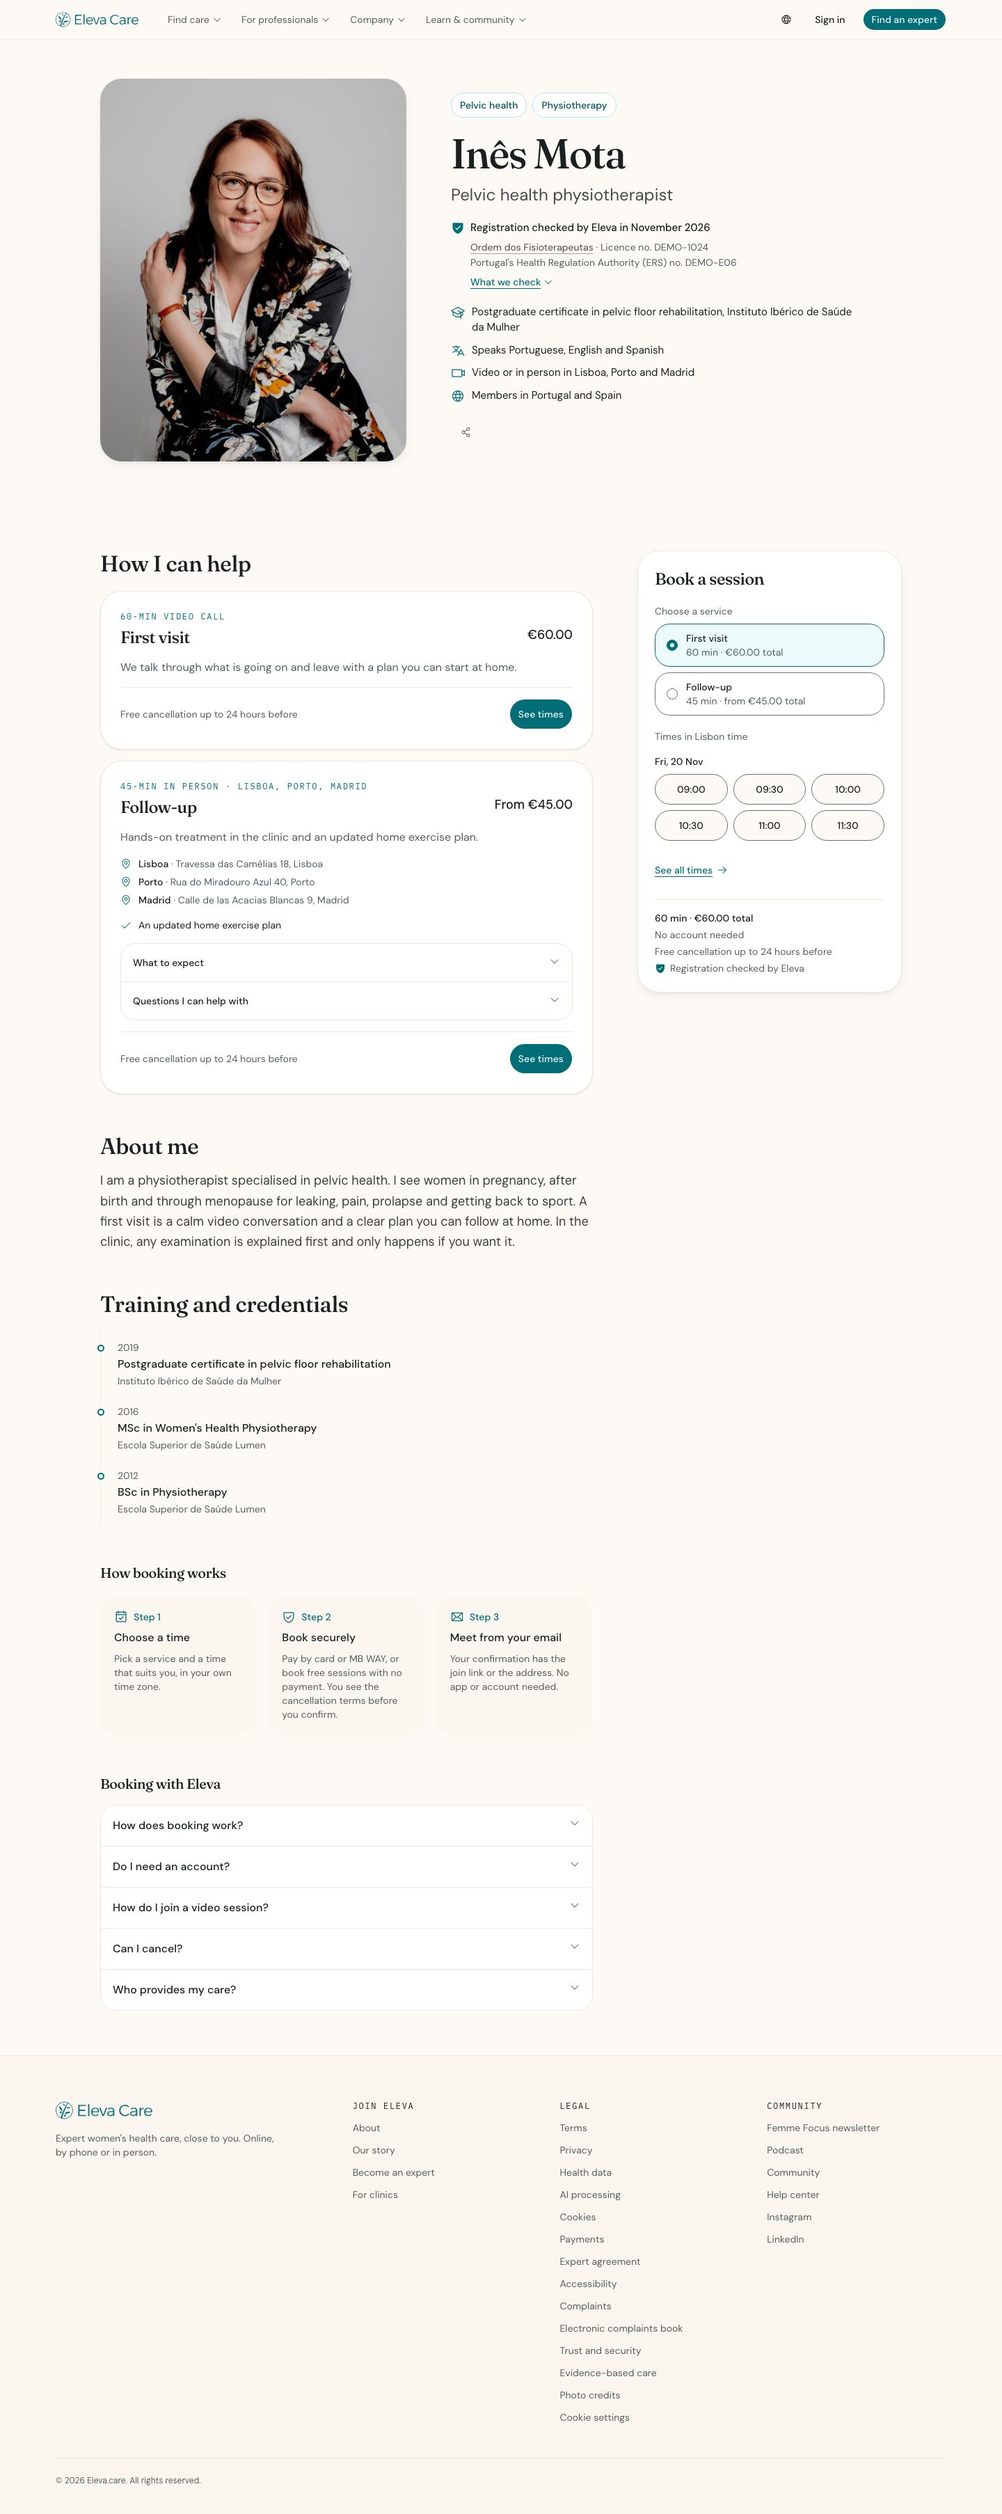
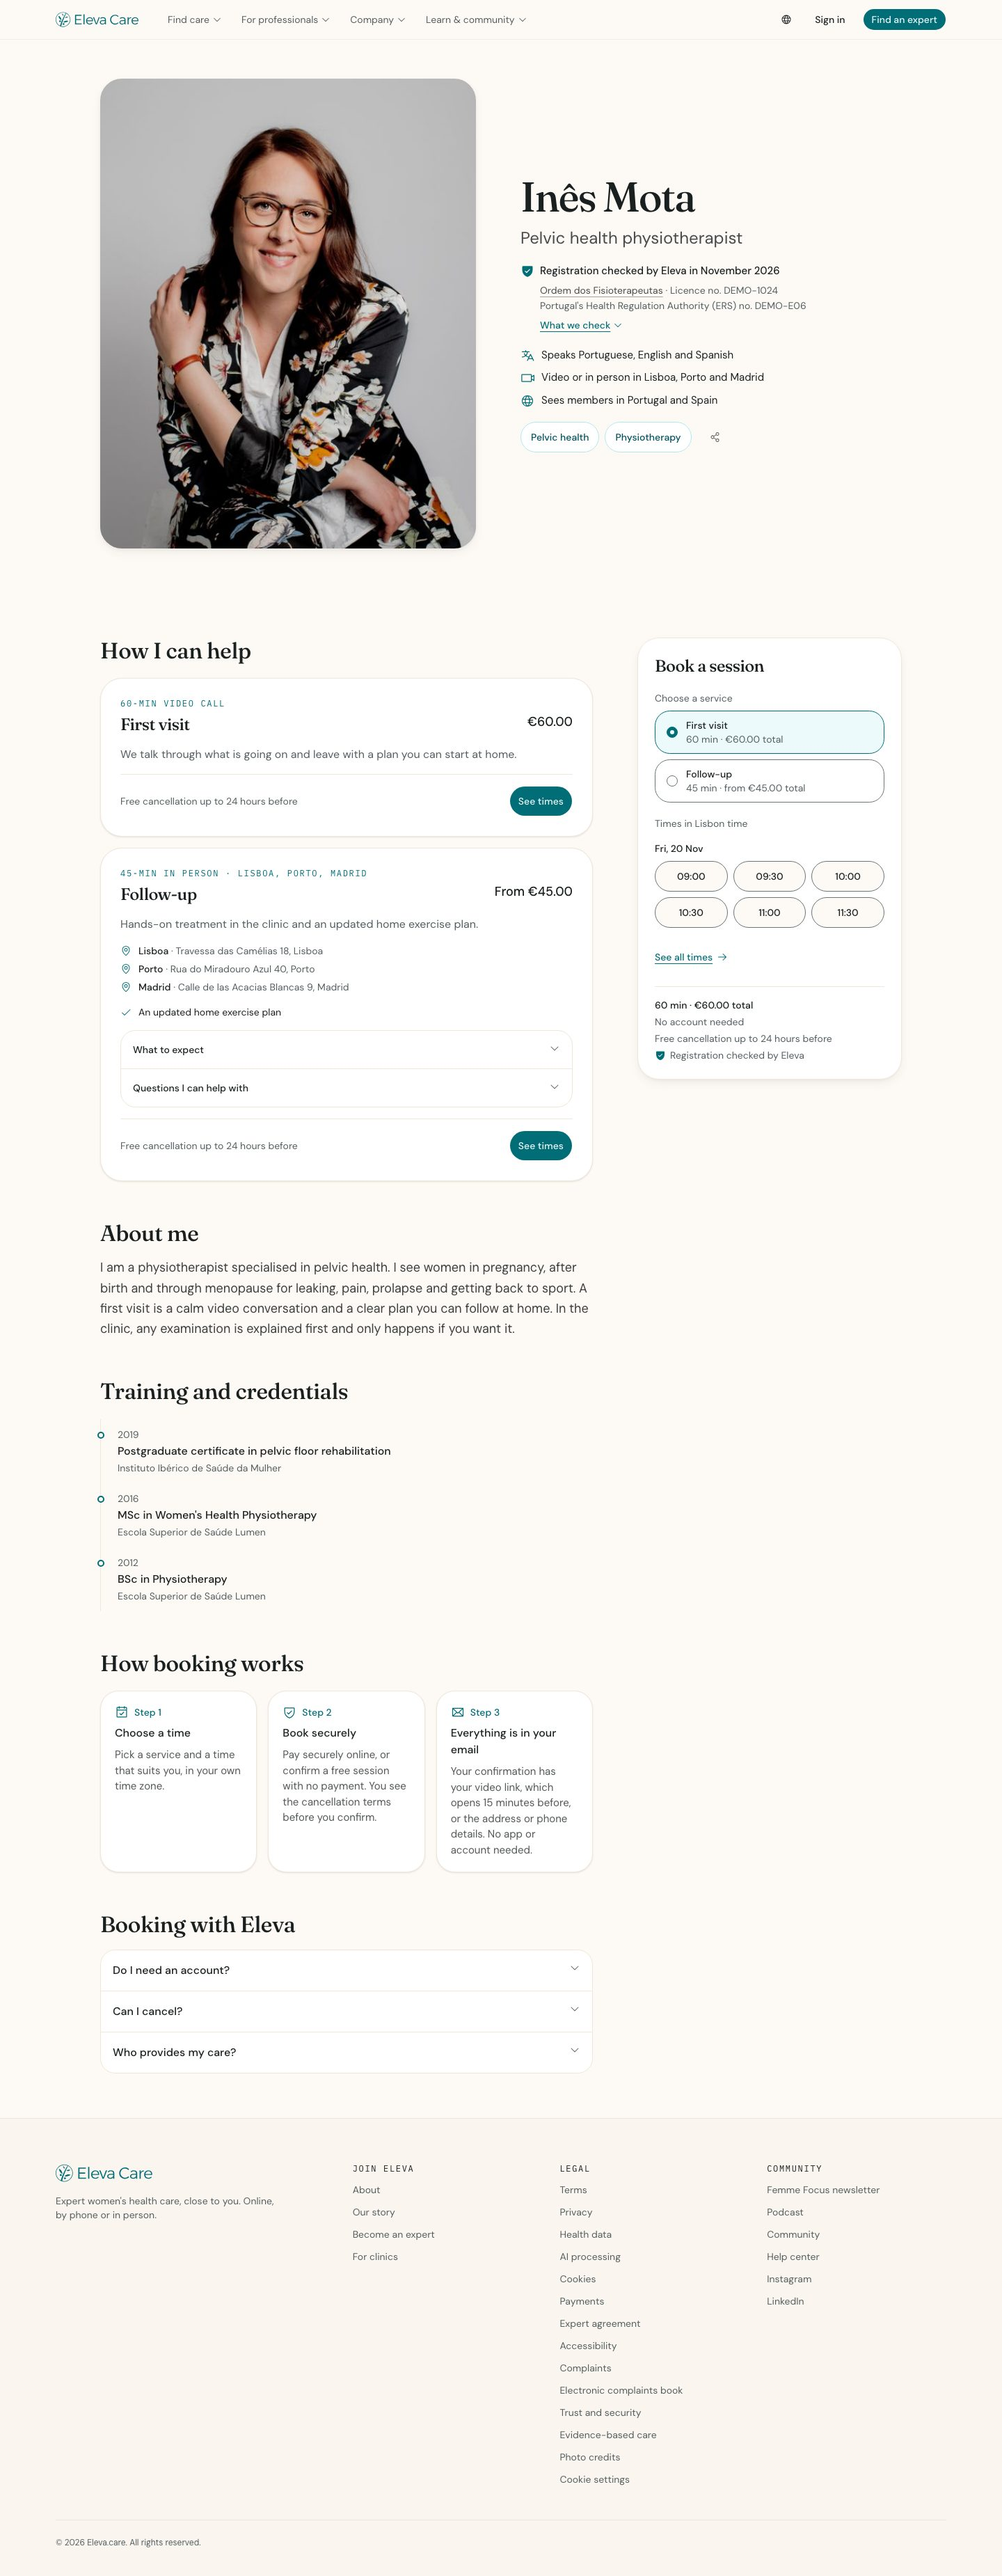
fix(web): profile header round 2 from the judges panel (D2.2)

diff --git a/apps/web/src/app/[locale]/[username]/page.tsx b/apps/web/src/app/[locale]/[username]/page.tsx
@@ -13,6 +13,7 @@ import {
   type CancellationPolicy,
 } from "@eleva/config/cancellation-policy"
 import { resolveGatewayUrl } from "@eleva/config/env"
+import { EU_SERVICE_COUNTRIES } from "@eleva/config"
 import { professionalBodyById } from "@eleva/config/professional-bodies"
 import { isReserved } from "@eleva/config/reserved-usernames"
 import { RichTextViewer } from "@eleva/editor/rich-text-viewer"
@@ -22,7 +23,6 @@ import {
   CheckIcon,
   EnvelopeIcon,
   GlobeIcon,
-  GraduationCapIcon,
   MapPinIcon,
   ShieldCheckIcon,
   SOCIAL_LINK_ICONS,
@@ -43,6 +43,7 @@ import {
 } from "@eleva/ui/components/accordion"
 import { buttonVariants } from "@eleva/ui/components/button-variants"
 import { Heading } from "@eleva/ui/components/typography"
+import { cn } from "@eleva/ui/lib/utils"
 import {
   displayLanguageLabel,
   displayRegion,
@@ -148,13 +149,7 @@ export default async function ExpertProfilePage({ params }: Props) {
     (eventType) => eventType.modes.length > 0
   )
   const categories = expert.categorySlugs.filter(isMarketplaceCategory)
-  const facts = profileFacts(
-    expert,
-    bookable,
-    locale,
-    t,
-    heroCredential(expert)
-  )
+  const facts = profileFacts(expert, bookable, locale, t)
   const bio = pickBio(expert, locale)
   const minPrice = lowestPrice(bookable)
   const allFree = bookable.every((eventType) => {
@@ -188,8 +183,8 @@ export default async function ExpertProfilePage({ params }: Props) {
           spacing="compact"
           className="bg-linear-to-b from-sand-50 to-background pt-0 max-sm:px-0 sm:pt-14 dark:from-teal-950/40"
         >
-          <Container className="grid gap-6 sm:gap-10 lg:grid-cols-[minmax(0,440px)_minmax(0,1fr)] lg:items-center lg:gap-16">
-            <div className="relative aspect-[4/5] w-full overflow-hidden bg-muted max-sm:max-h-[78svh] sm:mx-auto sm:max-w-md sm:rounded-4xl sm:shadow-2 lg:max-w-none">
+          <Container className="grid gap-6 sm:gap-10 lg:grid-cols-[minmax(0,500px)_minmax(0,1fr)] lg:items-center lg:gap-16 xl:grid-cols-[minmax(0,540px)_minmax(0,1fr)]">
+            <div className="relative aspect-[4/5] w-full overflow-hidden bg-muted max-sm:aspect-[6/7] max-sm:max-h-[64svh] sm:mx-auto sm:max-w-md sm:rounded-4xl sm:shadow-2 lg:max-w-none">
               {expert.avatarUrl ? (
                 <ExpertPortrait
                   displayName={name}
@@ -203,9 +198,14 @@ export default async function ExpertProfilePage({ params }: Props) {
                   carries the same name for assistive tech. */}
               <div
                 aria-hidden
-                className="absolute inset-x-0 bottom-0 bg-linear-to-t from-black/75 via-black/35 to-transparent px-4 pt-28 pb-5 text-white sm:hidden"
+                className={cn(
+                  "absolute inset-x-0 bottom-0 px-4 pt-28 pb-5 text-white sm:hidden",
+                  // The teal field needs no scrim; a photo does.
+                  expert.avatarUrl &&
+                    "bg-linear-to-t from-black/80 via-black/55 to-transparent"
+                )}
               >
-                <p className="font-display text-[2.5rem] leading-[1.05] font-medium tracking-tight text-balance">
+                <p className="font-display text-[2.5rem] leading-[1.05] font-medium tracking-tight text-balance [text-shadow:0_1px_12px_rgb(0_0_0/0.5)]">
                   {name}
                 </p>
                 {expert.headline ? (
@@ -216,20 +216,6 @@ export default async function ExpertProfilePage({ params }: Props) {
               </div>
             </div>
             <div className="flex flex-col gap-5 max-sm:px-4">
-              {categories.length > 0 ? (
-                <ul className="flex flex-wrap gap-2">
-                  {categories.map((slug) => (
-                    <li key={slug}>
-                      <Link
-                        href={`/experts/${slug}`}
-                        className="inline-flex min-h-9 items-center rounded-full border border-teal-200 bg-card px-3 text-sm font-medium text-teal-800 transition-colors hover:border-primary hover:bg-teal-50 focus-visible:ring-3 focus-visible:ring-ring/50 focus-visible:outline-none dark:border-teal-800 dark:text-teal-200 dark:hover:bg-teal-950"
-                      >
-                        {tExperts(`categories.${slug}`)}
-                      </Link>
-                    </li>
-                  ))}
-                </ul>
-              ) : null}
               <div className="flex flex-col gap-3">
                 <h1
                   data-testid="expert-profile-heading"
@@ -268,7 +254,21 @@ export default async function ExpertProfilePage({ params }: Props) {
                   })}
                 </ul>
               ) : null}
-              <div className="flex flex-wrap items-center gap-1">
+              <div className="flex flex-wrap items-center gap-x-1 gap-y-2">
+                {categories.length > 0 ? (
+                  <ul className="mr-2 flex flex-wrap gap-2">
+                    {categories.map((slug) => (
+                      <li key={slug}>
+                        <Link
+                          href={`/experts/${slug}`}
+                          className="inline-flex min-h-11 items-center rounded-full border border-teal-200 bg-card px-3.5 text-sm font-medium text-teal-800 transition-colors hover:border-primary hover:bg-teal-50 focus-visible:ring-3 focus-visible:ring-ring focus-visible:ring-offset-2 focus-visible:ring-offset-background focus-visible:outline-none dark:border-teal-800 dark:text-teal-200 dark:hover:bg-teal-950"
+                        >
+                          {tExperts(`categories.${slug}`)}
+                        </Link>
+                      </li>
+                    ))}
+                  </ul>
+                ) : null}
                 {expert.socialLinks.length > 0 ? (
                   <ul className="flex flex-wrap gap-1">
                     {expert.socialLinks.map((link) => {
@@ -285,8 +285,8 @@ export default async function ExpertProfilePage({ params }: Props) {
                             aria-label={t(`social.${link.kind}`, { name })}
                             className={
                               isWebsite
-                                ? "flex h-11 items-center gap-2 rounded-full px-3 text-sm text-foreground/80 transition-colors hover:bg-muted hover:text-foreground focus-visible:ring-3 focus-visible:ring-ring/50 focus-visible:outline-none"
-                                : "flex size-11 items-center justify-center rounded-full text-foreground/70 transition-colors hover:bg-muted hover:text-foreground focus-visible:ring-3 focus-visible:ring-ring/50 focus-visible:outline-none"
+                                ? "flex h-11 items-center gap-2 rounded-full px-3 text-sm text-foreground/80 transition-colors hover:bg-muted hover:text-foreground focus-visible:ring-3 focus-visible:ring-ring focus-visible:ring-offset-2 focus-visible:ring-offset-background focus-visible:outline-none"
+                                : "flex size-11 items-center justify-center rounded-full text-foreground/70 transition-colors hover:bg-muted hover:text-foreground focus-visible:ring-3 focus-visible:ring-ring focus-visible:ring-offset-2 focus-visible:ring-offset-background focus-visible:outline-none"
                             }
                           >
                             <Icon aria-hidden className="size-5" />
@@ -319,7 +319,12 @@ export default async function ExpertProfilePage({ params }: Props) {
         <Section spacing="compact" className="pb-20">
           {/* One booking card: after the services on phones, a sticky
               side column from lg. */}
-          <Container className="grid gap-x-16 gap-y-14 lg:grid-cols-[minmax(0,1fr)_380px]">
+          <Container
+            className={cn(
+              "grid gap-x-16 gap-y-14",
+              bookable.length > 0 && "lg:grid-cols-[minmax(0,1fr)_380px]"
+            )}
+          >
             <div className="flex min-w-0 flex-col gap-14 lg:col-start-1 lg:row-start-1">
               {bookable.length > 0 ? (
                 <section
@@ -434,7 +439,7 @@ export default async function ExpertProfilePage({ params }: Props) {
                   className="flex flex-col gap-5"
                   data-testid="how-booking-works"
                 >
-                  <Heading id="how-heading" as="h2" size="subtitle">
+                  <Heading id="how-heading" as="h2" size="title">
                     {t("how.heading")}
                   </Heading>
                   <ol className="grid gap-4 sm:grid-cols-3">
@@ -443,7 +448,7 @@ export default async function ExpertProfilePage({ params }: Props) {
                       return (
                         <li
                           key={step.key}
-                          className="flex flex-col gap-2 rounded-3xl bg-muted/50 p-5"
+                          className="flex flex-col gap-2 rounded-3xl border bg-card p-5 shadow-1"
                         >
                           <span className="flex items-center gap-2 text-sm font-medium text-primary">
                             <Icon aria-hidden className="size-5" />
@@ -452,7 +457,7 @@ export default async function ExpertProfilePage({ params }: Props) {
                           <span className="font-medium">
                             {t(`how.${step.key}.title`)}
                           </span>
-                          <span className="text-sm text-pretty text-muted-foreground">
+                          <span className="text-[0.9375rem] text-pretty text-foreground/75">
                             {t(`how.${step.key}.body`)}
                           </span>
                         </li>
@@ -468,7 +473,7 @@ export default async function ExpertProfilePage({ params }: Props) {
                   aria-labelledby="with-eleva-heading"
                   className="flex flex-col gap-4"
                 >
-                  <Heading id="with-eleva-heading" as="h2" size="subtitle">
+                  <Heading id="with-eleva-heading" as="h2" size="title">
                     {t("withEleva.heading")}
                   </Heading>
                   <Accordion allowsMultipleExpanded className="bg-card">
@@ -516,13 +521,8 @@ const HOW_STEPS = [
   { key: "join", icon: EnvelopeIcon },
 ] as const
 
-const WITH_ELEVA_ITEMS = [
-  "howItWorks",
-  "account",
-  "join",
-  "cancel",
-  "care",
-] as const
+/** The steps already answer how booking and joining work. */
+const WITH_ELEVA_ITEMS = ["account", "cancel", "care"] as const
 
 function BioBody({
   expert,
@@ -569,7 +569,11 @@ function ServiceCard({
   const expect = pickList(eventType.whatToExpect, locale)
   const questions = pickList(eventType.exampleQuestions, locale)
   const eyebrow = formatEyebrow(eventType, locale, t)
-  const cancellation = freeCancellationLine(eventType.cancellationPolicy, t)
+  // A free session costs nothing to cancel: no policy line.
+  const cancellation =
+    price.min === 0 && !price.varies
+      ? null
+      : freeCancellationLine(eventType.cancellationPolicy, t)
   const visibleIncluded = included.slice(0, 3)
   const moreIncluded = included.slice(3)
   const places = inPersonPlaces(eventType)
@@ -855,7 +859,10 @@ async function ProfileBookingCard({
                 minutes: eventType.durationMinutes,
                 price: formatEur(price.min, locale),
               }),
-      policy: freeCancellationLine(eventType.cancellationPolicy, t),
+      policy:
+        price.min === 0 && !price.varies
+          ? null
+          : freeCancellationLine(eventType.cancellationPolicy, t),
       loadFailed: serviceFailed.get(eventType.slug) === true,
       seeAllHref: `/${username}/${eventType.slug}`,
       days: [...days.values()],
@@ -1081,25 +1088,12 @@ function RegistrationProof({
   )
 }
 
-/** First credential, unless the headline already says it. */
-function heroCredential(expert: PublicExpertProfile): string | null {
-  const first = expert.credentials[0]
-  if (!first) return null
-  if (expert.headline?.toLowerCase().includes(first.title.toLowerCase())) {
-    return null
-  }
-  return first.institution
-    ? `${first.title}, ${first.institution}`
-    : first.title
-}
-
 type ProfileFact = {
-  kind: "training" | "languages" | "meet" | "countries"
+  kind: "languages" | "meet" | "countries"
   text: string
 }
 
 const FACT_ICONS = {
-  training: GraduationCapIcon,
   languages: TranslateIcon,
   meet: VideoCameraIcon,
   countries: GlobeIcon,
@@ -1110,18 +1104,16 @@ const COUNTRIES_SHOWN = 3
 
 /**
  * The facts a member scans for first, one row each with an icon
- * (PROF-04): training, languages, how and where you meet, and where
- * members can be.
+ * (PROF-04): languages, how and where you meet, and where members can
+ * be. Training has its own section just below, so it is not repeated.
  */
 function profileFacts(
   expert: PublicExpertProfile,
   bookable: PublicEventType[],
   locale: Locale,
-  t: ProfileT,
-  credential: string | null
+  t: ProfileT
 ): ProfileFact[] {
   const facts: ProfileFact[] = []
-  if (credential) facts.push({ kind: "training", text: credential })
   const languages = expert.languages.map((code) =>
     displayLanguageLabel(code, locale)
   )
@@ -1161,10 +1153,26 @@ function profileFacts(
       text: capitalise(listFormat(ways, locale, "or")),
     })
   }
-  const countries = expert.serviceCountries.map((code) =>
-    displayRegion(code, locale)
-  )
-  if (countries.length > COUNTRIES_SHOWN + 1) {
+  const served = new Set(expert.serviceCountries)
+  const coversEu = EU_SERVICE_COUNTRIES.every((code) => served.has(code))
+  const countries = (
+    coversEu
+      ? expert.serviceCountries.filter(
+          (code) => !(EU_SERVICE_COUNTRIES as readonly string[]).includes(code)
+        )
+      : expert.serviceCountries
+  ).map((code) => displayRegion(code, locale))
+  if (coversEu) {
+    facts.push({
+      kind: "countries",
+      text:
+        countries.length > 0
+          ? t("facts.countriesEuAnd", {
+              countries: listFormat(countries, locale),
+            })
+          : t("facts.countriesEu"),
+    })
+  } else if (countries.length > COUNTRIES_SHOWN + 1) {
     facts.push({
       kind: "countries",
       text: t("facts.countriesMore", {
@@ -1240,7 +1248,7 @@ async function NotBookableYet({
   return (
     <section
       aria-labelledby="not-bookable-heading"
-      className="flex flex-col gap-5 rounded-4xl bg-muted/50 p-6 sm:p-8"
+      className="flex max-w-4xl flex-col gap-5 rounded-4xl bg-muted/50 p-6 sm:p-8"
       data-testid="not-bookable"
     >
       <div className="flex flex-col gap-2">
@@ -1248,7 +1256,7 @@ async function NotBookableYet({
           {t("notBookable.heading", { name })}
         </Heading>
         <p className="text-pretty text-muted-foreground">
-          {t("notBookable.body", { name })}
+          {t(category ? "notBookable.body" : "notBookable.bodyAny")}
         </p>
       </div>
       {others.length > 0 ? (
@@ -1259,7 +1267,7 @@ async function NotBookableYet({
               <li key={other.username}>
                 <Link
                   href={`/${other.username}`}
-                  className="group flex items-center gap-3 rounded-3xl bg-card p-3 shadow-1 transition-shadow hover:shadow-2 focus-visible:ring-3 focus-visible:ring-ring/50 focus-visible:outline-none sm:flex-col sm:items-start"
+                  className="group flex items-center gap-3 rounded-3xl bg-card p-3 shadow-1 transition-shadow hover:shadow-2 focus-visible:ring-3 focus-visible:ring-ring focus-visible:ring-offset-2 focus-visible:ring-offset-background focus-visible:outline-none sm:flex-col sm:items-start"
                 >
                   <span className="relative block size-16 shrink-0 overflow-hidden rounded-2xl bg-muted sm:aspect-[4/5] sm:h-auto sm:w-full">
                     <ExpertPortrait

diff --git a/packages/ui/src/blocks/expert-portrait.tsx b/packages/ui/src/blocks/expert-portrait.tsx
@@ -55,7 +55,7 @@ export function ExpertPortraitFallback({
     <div
       aria-hidden
       className={cn(
-        "relative flex size-full items-center justify-center overflow-hidden bg-linear-to-br from-teal-700 via-teal-800 to-teal-950 text-sand-50",
+        "relative flex size-full items-center justify-center overflow-hidden bg-linear-to-br from-teal-600 via-teal-700 to-teal-800 text-sand-50",
         className
       )}
     >

diff --git a/docs/eleva-v3/decision-log.md b/docs/eleva-v3/decision-log.md
@@ -32,6 +32,34 @@ Each entry should include:
 
 ## Current Entries
 
+### 2026-11-15: Portrait-led expert profile header (D2.2) (active)
+
+- Change (design slice D2.2, references `_context/mobbin/library/03-profile`
+  16–21): the profile opens with a large 4:5 portrait (edge to edge on
+  phones, the name and headline set on it); without a photo the same frame
+  holds a teal field with her initials. Under the name: the registration
+  proof, then fact rows with icons (languages, how and where you meet,
+  where she sees members; the whole EU reads "across the EU"), then area
+  chips, her links and an icon-only share. Training is not repeated in the
+  header (it has its own section).
+- Body: a three-step "How booking works" (choose, book, everything is in
+  your email) replaces the FAQ items that said the same; the FAQ keeps
+  account, cancel and who provides care. Free sessions show no "free
+  cancellation" line. A profile with nothing bookable says bookings open
+  once a service is added and offers bookable experts in the same area (or
+  on Eleva, when she has no area), never a dead end.
+- Payment copy names no method ("pay securely online"): methods come from
+  the Stripe payment-method configuration and vary by country.
+- Follow-ups (not shipped): "Tell me when bookings open" email on an empty
+  profile (PROF-08, needs a consented notify list); a profession line when
+  the headline is empty (setup should require the headline, Phase D4);
+  "My approach", "Your first session" and a two-line header bio (PROF-02,
+  from setup data, D4); "New on Eleva"; reviews; the next free time in the
+  hero; whole-euro prices (D2.3).
+- Judges panel: round 1 UI 7.8, UX 7.5, trust 8.0; round 2 pending.
+- Owner: engineering
+- Status: `active`
+
 ### 2026-11-15: Accepting a clinic invitation (11.1c) (active)
 
 - Change (Phase 11.1c): invitation emails link to `/accept-invitation`
